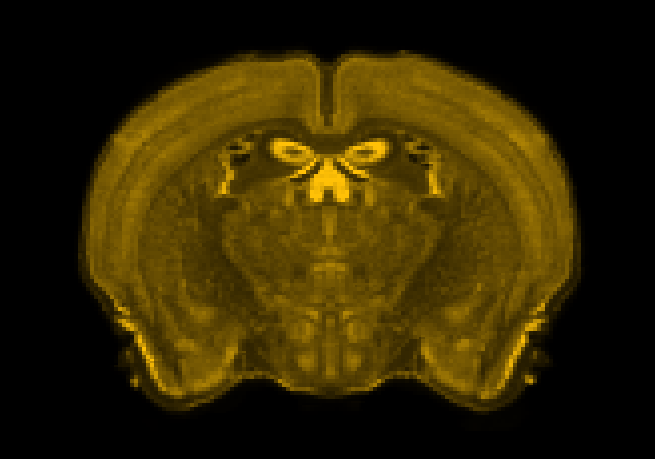
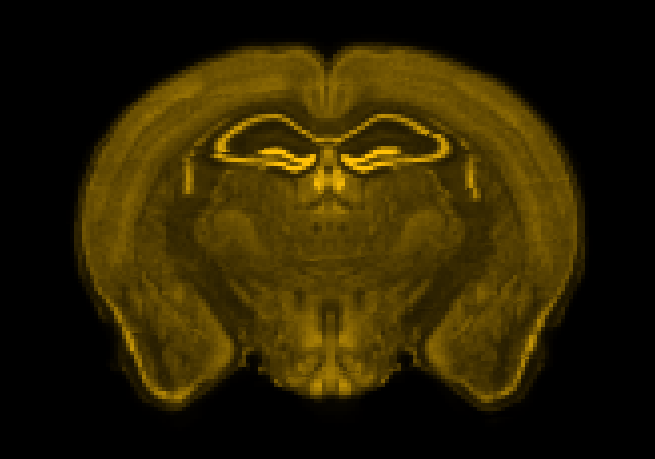
Fix the export pictures; add the status of the handoff
The export pictures now show the plane of slice 10x_06, both the slice and the
atlas: the atlas one showed the first plane. ASSETS_HANDOFF.md: the status of
phase 1, the open question and the findings in ABBA 0.24.1.

Changed region(s): [[0.0916, 0.0915, 0.916, 0.915]]

diff --git a/ASSETS_HANDOFF.md b/ASSETS_HANDOFF.md
@@ -155,3 +155,25 @@ may be better than the viewer.
 2. The Getting started pictures, from one pipeline run.
 3. The user guide pictures of the shot list.
 4. The three dialogs needing a live session.
+
+## Status (2026-10-05): phase 1 done
+
+All four milestones are committed (not pushed): this repo on `docs-0.24.1`, `abba-doc-assets` on `main`, and
+fiji-robot on its branch `painted-pictures` (0.1.4-SNAPSHOT, installed locally; `abba-doc-assets` depends on it).
+
+* **Pictures**: 32 pictures of the ABBA window in `docs/source/assets/abba/<page>/`, and the three live-session
+  dialogs in `docs/source/assets/dialogs/`. `../abba-doc-assets/run-all.sh` regenerates them all (about 30 minutes);
+  two runs give byte-identical files. How to rerun them at a release: `BUMP_DOC.md`, section 4.
+* **fiji-robot**, generic and reusable for phase 2: `widgets.Painter` (components, windows without title bar,
+  closed menus, painted as on screen), `widgets.CommandDialogPainter` (a command dialog with live inputs),
+  `bdv.view.BdvCards` (expand and paint cards), `bdv.view.BdvViewer` (wait for passing messages),
+  `core.InMemoryPreferences` (defaults for every remembered input, user preferences untouched).
+* **Not done, phase 2**: the motion. The 0.11 GIFs left are marked `TODO GIF phase` (rectangle selection, dragging
+  slices, setting a key slice, the registration sequence, the ROI Manager). The generators are written as fiji-robot
+  `Step`s per chapter, ready for visible launchers and recording.
+* **Open question for the maintainer**: the size and scale of the whole-window pictures (1600 x 1000, painted at
+  1x). Cards and menus are painted at 1x: Swing text painted bigger than its layout gets cut.
+* **Findings in ABBA 0.24.1** (proposals, nothing changed): the regions overlay of `Export Registered Slices To
+  ImageJ` is drawn by ImageJ as horizontal stripes (the picture leaves it out); a manual registration whose editor is
+  open shows as waiting (red), not running (yellow); the manual affine editor shows a `100 undefined` scale bar;
+  after deleting the current slice, the `Slices Display` card still names it.
